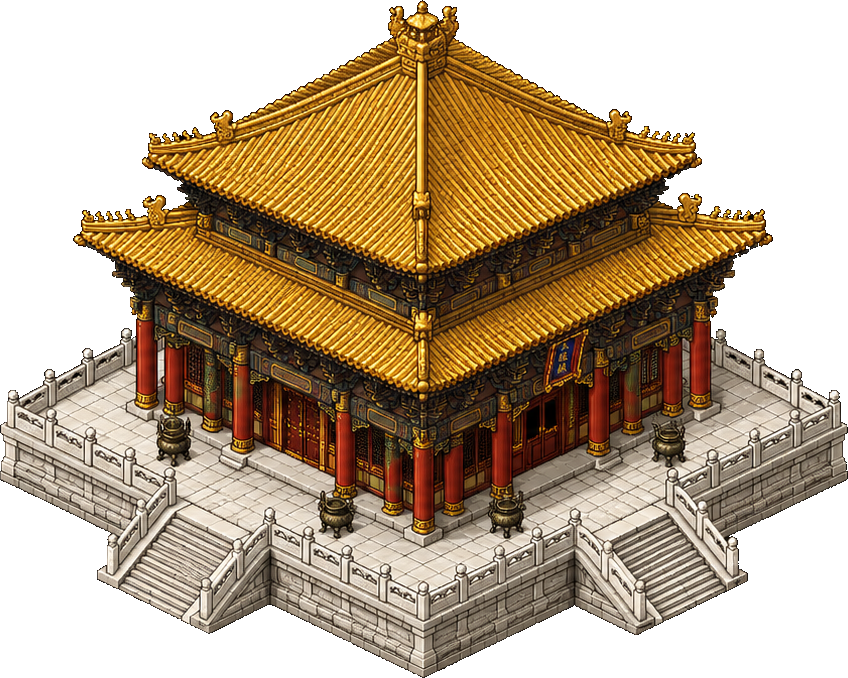
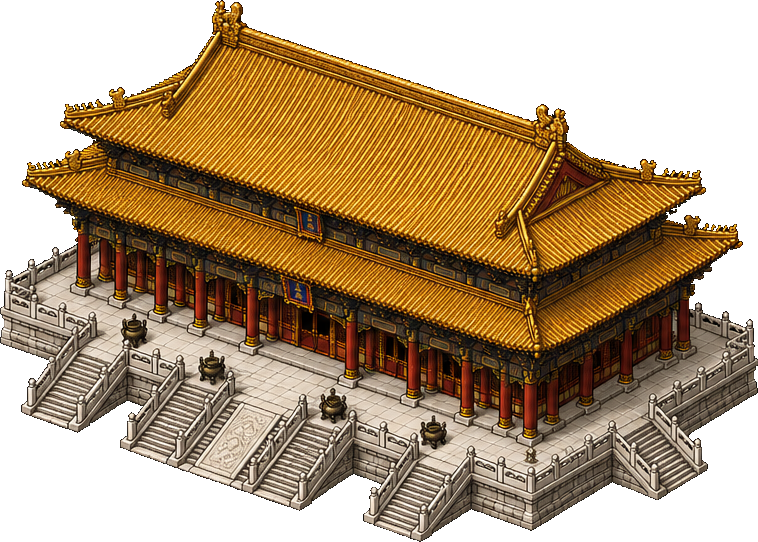
Wei: nuevo Great Hall (太極殿) 9×12 + palacio hereda el arte anterior
- Salón del Trono: arte nuevo (Great Hall alargado de doble alero), ya en
  proyección 2:1 nativa (base ≈26.6°), sin estirar → calidad intacta. Footprint
  5×6 → 9×12 (ratio ≈1.3, el del arte); altura 88. A 9×12 el arte se dibuja ~1:1.
- Palacio 宮殿 (tema Wei): reutiliza el arte del antiguo salón del trono (salón
  cuadrado), anclado a footprint 4×6.
- Anclajes calculados para centrar la base en cada footprint. SPRITE_VER 46.

diff --git a/assets/js/hac-build.js b/assets/js/hac-build.js
@@ -87,7 +87,7 @@ const HacBuild = (function () {
     // hacienda use un TEMA con arte a mano (p.ej. 'wei'). Ver iso-sprites-wei.js.
     { id: 'puerta-imperial', dominio: 'administrativo', nombre: 'Puerta Imperial',   zh: '午門', capa: 'edificio', footprint: [4, 4], tierMin: 4, unico: false, cargoMin: null, color: '#b23b2e', altura: 56, desc: 'Torre-puerta monumental sobre base de piedra: el acceso ceremonial de la muralla exterior de una gran capital.' },
     { id: 'que',             dominio: null,             nombre: 'Torre Que',         zh: '闕',   capa: 'edificio', footprint: [1, 2], tierMin: 4, unico: false, cargoMin: null, color: '#a03828', altura: 46, desc: 'Torre-pilar ceremonial que se alza en pareja flanqueando la entrada del palacio.' },
-    { id: 'salon-trono',     dominio: 'administrativo', nombre: 'Salón del Trono',   zh: '太極殿', capa: 'edificio', footprint: [5, 6], tierMin: 5, unico: true,  cargoMin: null, color: '#c43c1a', altura: 66, desc: 'El gran salón del trono imperial: la construcción más imponente del eje.' },
+    { id: 'salon-trono',     dominio: 'administrativo', nombre: 'Salón del Trono',   zh: '太極殿', capa: 'edificio', footprint: [9, 12], tierMin: 5, unico: true,  cargoMin: null, color: '#c43c1a', altura: 88, desc: 'El gran salón del trono imperial: la construcción más imponente del eje.' },
     { id: 'torre-esquina',   dominio: 'militar',        nombre: 'Torre de Esquina',  zh: '角樓', capa: 'edificio', footprint: [2, 2], tierMin: 3, unico: false, cargoMin: null, color: '#7a5a3a', altura: 48, desc: 'Torreón de varios aleros que corona las esquinas de la muralla imperial.' },
     { id: 'pabellon-agua',   dominio: 'cultural',       nombre: 'Pabellón sobre el Agua', zh: '水榭', capa: 'edificio', footprint: [2, 2], tierMin: 3, unico: false, cargoMin: null, color: '#3a6a70', altura: 24, desc: 'Pabellón de recreo que se asoma sobre el estanque para contemplar el agua.' },
     { id: 'yingbi',            nombre: 'Muro de los Espíritus', zh: '影壁', capa: 'edificio', footprint: [1, 3], tierMin: 2, unico: false, cargoMin: null, color: '#8a6a4a', altura: 20, desc: 'Pantalla ornamentada tras la puerta; da privacidad y detiene a los malos espíritus.' },

diff --git a/assets/js/iso-sprites-wei.js b/assets/js/iso-sprites-wei.js
@@ -22,15 +22,20 @@
   window.ISO_SPRITES_THEMES.wei = window.ISO_SPRITES_THEMES.wei || {};
 
   // ── Sprites de Wei ───────────────────────────────────────────────────────
-  // Salón del Trono 太極殿 (edificio principal de Luoyang): gran salón imperial de
-  // teja dorada con su propia base de mármol y escalinata. Dos vistas: rot 0
-  // (frente, con la entrada y el estandarte) y rot 1 (trasera, girada 180°);
-  // rot 2/3 caen a -0. Arte a mano en proyección 2:1; anclaje calculado para que
-  // el rombo de la base cubra el footprint [5,6] centrado (base 848px → 396px
-  // device, factor ≈0.467). Afínalo con la herramienta "Arte / Sprites" si hace falta.
+  // Salón del Trono 太極殿 (Great Hall imperial de Luoyang): gran salón alargado de
+  // doble alero, teja dorada, sobre terraza de mármol con escalinatas. Dos vistas:
+  // rot 0 (frente, entrada + estandarte) y rot 1 (trasera, girada 180°); rot 2/3
+  // caen a -0. Arte a mano en proyección 2:1 (base ≈26.6°); anclaje calculado para
+  // que el rombo de la base cubra el footprint [9,12] centrado — a esta escala el
+  // arte se dibuja ~1:1 (nativo), sin reescalado, calidad intacta.
   const T = window.ISO_SPRITES_THEMES.wei;
-  T['bld-salon-trono-0'] = { ox: 216, oy: 131, w: 396, h: 317 };
-  T['bld-salon-trono-1'] = { ox: 216, oy: 135, w: 396, h: 316 };
+  T['bld-salon-trono-0'] = { ox: 432, oy: 180, w: 757, h: 541 };
+  T['bld-salon-trono-1'] = { ox: 432, oy: 179, w: 757, h: 532 };
+
+  // Palacio 宮殿 (tema Wei): reutiliza el arte del ANTIGUO salón del trono (salón
+  // cuadrado de doble alero sobre base de mármol). Footprint [4,6] centrado.
+  T['bld-palacio-0'] = { ox: 216, oy: 122, w: 360, h: 288 };
+  T['bld-palacio-1'] = { ox: 216, oy: 121, w: 360, h: 288 };
 
   // Puerta Imperial 午門 (portón monumental de la muralla exterior, 洛陽宮). Torre
   // de puerta sobre base de piedra. rot 0 = vista lisa (puerta a la derecha);

diff --git a/assets/js/hac-iso.js b/assets/js/hac-iso.js
@@ -22,7 +22,7 @@ const HacIso = (function () {
   const TOP_MARGIN = 132;             // hueco arriba para edificios altos, murallas y torres
   const PAD_X = 40;                   // margen lateral para murallas y paseo de ronda
   const SPRITE_BASE = 'assets/img/iso/';
-  const SPRITE_VER = '45';  // súbelo al regenerar los PNG (cache-busting)
+  const SPRITE_VER = '46';  // súbelo al regenerar los PNG (cache-busting)
 
   // ── Color helpers (para el placeholder) ─────────────────────────────────
   const { hexToRgb, clamp255: cl } = HacUtil;
